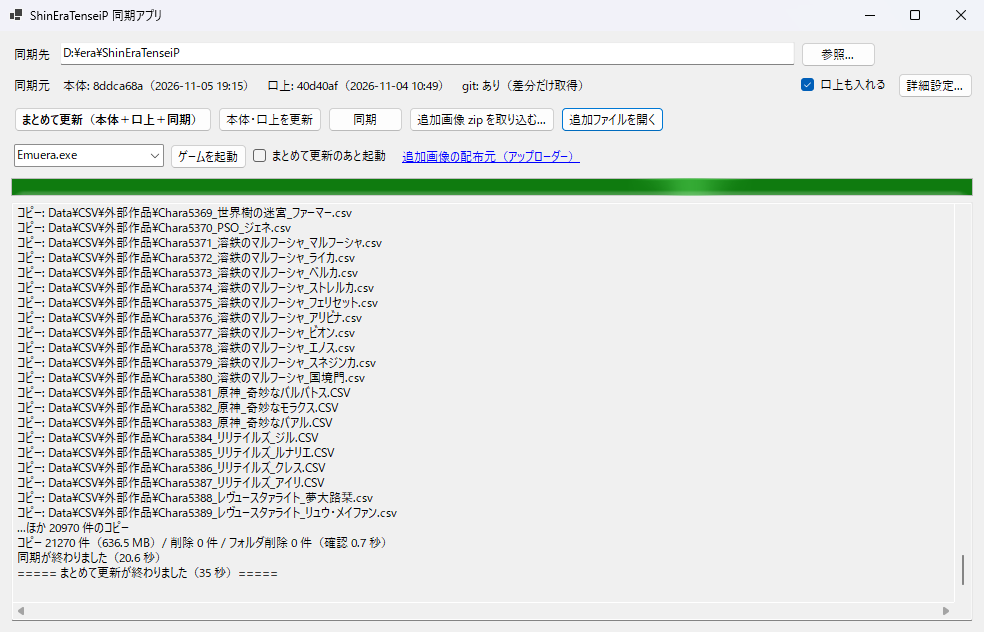
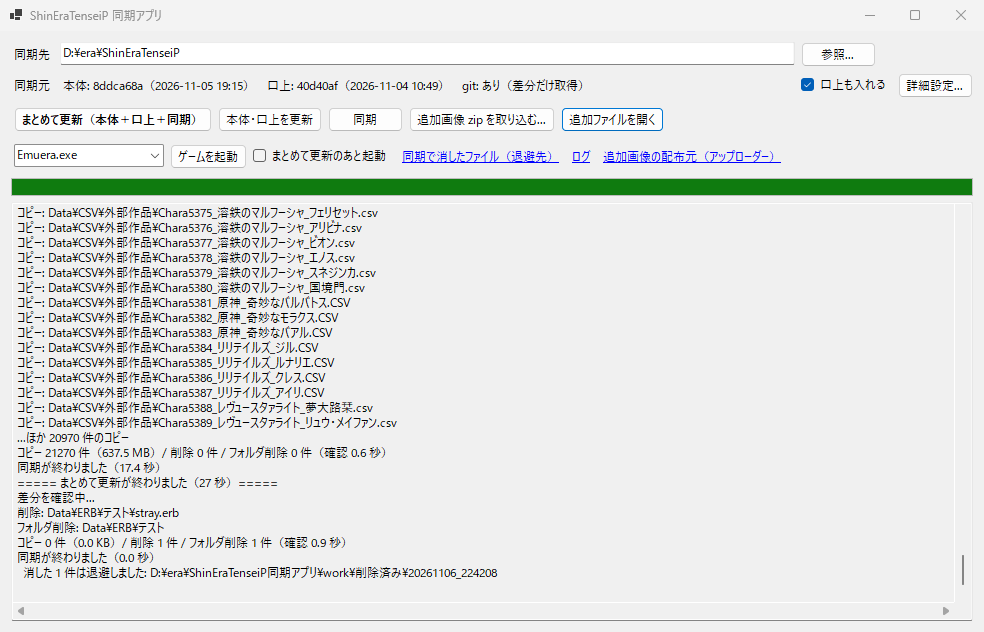
同期で消したファイルを退避し、ログをファイルにも残す (v1.0.1) (#1)

Changed region(s): [[0.0, 0.2405, 0.9756, 0.932], [0.0305, 0.0, 0.1524, 0.0301]]

diff --git a/MainForm.cs b/MainForm.cs
@@ -7,12 +7,16 @@ class MainForm : Form
 {
     private static readonly string AppDirectory = AppContext.BaseDirectory;
     private static readonly string ConfigPath = Path.Combine(AppDirectory, "config.txt");
+    private const long MaxLogBytes = 2_000_000;
 
     private AppConfig _config = new();
     private string BodyDir => _config.BodyPath(AppDirectory);
     private string KojoDir => _config.KojoPath(AppDirectory);
     private string ExtraDir => _config.ExtraPath(AppDirectory);
     private string WorkDir => _config.WorkPath(AppDirectory);
+    private string TrashRoot => Path.Combine(WorkDir, "削除済み");
+    private string LogPath => Path.Combine(WorkDir, "同期アプリ_ログ.txt");
+    private bool _logStarted;
 
     private readonly TextBox _targetBox = new() { Dock = DockStyle.Fill };
     private readonly Button _browseButton = new() { Text = "参照...", AutoSize = true };
@@ -27,6 +31,8 @@ class MainForm : Form
     private readonly ComboBox _launchBox = new() { Width = 150, DropDownStyle = ComboBoxStyle.DropDown };
     private readonly Button _launchButton = new() { Text = "ゲームを起動", AutoSize = true };
     private readonly CheckBox _launchAfterCheck = new() { Text = "まとめて更新のあと起動", AutoSize = true, Anchor = AnchorStyles.Left };
+    private readonly LinkLabel _trashLink = new() { Text = "同期で消したファイル（退避先）", AutoSize = true, Anchor = AnchorStyles.Left };
+    private readonly LinkLabel _logLink = new() { Text = "ログ", AutoSize = true, Anchor = AnchorStyles.Left };
     private readonly LinkLabel _uploaderLink = new() { Text = "追加画像の配布元（アップローダー）", AutoSize = true, Anchor = AnchorStyles.Left };
     private readonly ProgressBar _progressBar = new() { Dock = DockStyle.Fill };
     private readonly TextBox _logBox = new() { Dock = DockStyle.Fill, Multiline = true, ReadOnly = true, ScrollBars = ScrollBars.Both, WordWrap = false };
@@ -61,7 +67,7 @@ class MainForm : Form
         layout.SetColumnSpan(buttons, 3);
 
         var launch = new FlowLayoutPanel { AutoSize = true, Dock = DockStyle.Fill };
-        launch.Controls.AddRange([_launchBox, _launchButton, _launchAfterCheck, _uploaderLink]);
+        launch.Controls.AddRange([_launchBox, _launchButton, _launchAfterCheck, _trashLink, _logLink, _uploaderLink]);
         layout.Controls.Add(launch, 0, 3);
         layout.SetColumnSpan(launch, 3);
 
@@ -83,6 +89,7 @@ class MainForm : Form
             c.Save(ConfigPath);
         }
         LoadConfigToUi();
+        RotateLog();
 
         _toolTip.SetToolTip(_targetBox, "ゲームの ShinEraTenseiP フォルダ。同期で本体＋口上＋追加ファイルと同じ中身になります（セーブや設定、直下のファイルはそのまま）");
         _toolTip.SetToolTip(_allButton, "本体と口上を gitgud から取得（差分だけ）→ ゲームフォルダへ同期、を一度に行います");
@@ -92,6 +99,8 @@ class MainForm : Form
         _toolTip.SetToolTip(_openExtraButton, "ゲームに上乗せするファイルを置く場所。中はゲームフォルダと同じ並び（Data\\resources\\… など）");
         _toolTip.SetToolTip(_kojoCheck, "口上（eramegatenpKOJO）を本体と一緒に入れます。外すと次の同期で口上のファイルは消えます");
         _toolTip.SetToolTip(_launchBox, "起動する exe（同期先の直下）");
+        _toolTip.SetToolTip(_trashLink, $"同期でゲームフォルダから消したファイルは、作業フォルダの「削除済み\\日時」に元の並びで退避します（直近 {FolderSync.TrashGenerations} 回分）");
+        _toolTip.SetToolTip(_logLink, "このウィンドウのログと同じ内容を残したファイル（作業フォルダの 同期アプリ_ログ.txt）を開きます");
 
         _kojoCheck.CheckedChanged += (_, _) => TrySaveSettings();
         _launchAfterCheck.CheckedChanged += (_, _) => TrySaveSettings();
@@ -106,6 +115,8 @@ class MainForm : Form
         _importButton.Click += async (_, _) => await ChooseAndImport();
         _openExtraButton.Click += (_, _) => { Directory.CreateDirectory(ExtraDir); OpenShell(ExtraDir); };
         _launchButton.Click += (_, _) => Launch();
+        _trashLink.LinkClicked += (_, _) => { Directory.CreateDirectory(TrashRoot); OpenShell(TrashRoot); };
+        _logLink.LinkClicked += (_, _) => { if (File.Exists(LogPath)) OpenShell(LogPath); else OpenShell(WorkDir); };
         _uploaderLink.LinkClicked += (_, _) => { if (AppConfig.IsWebUrl(_config.ExtraUrl)) OpenShell(_config.ExtraUrl); };
         DragEnter += (_, e) => { if (e.Data?.GetDataPresent(DataFormats.FileDrop) == true) e.Effect = DragDropEffects.Copy; };
         DragDrop += async (_, e) =>
@@ -381,7 +392,8 @@ class MainForm : Form
         {
             string sample = string.Join("\n", plan.DeleteFiles.Take(8).Select(r => "・" + r)) + (plan.DeleteFiles.Count > 8 ? $"\n…ほか {plan.DeleteFiles.Count - 8} 件（ログ参照）" : "");
             string question = $"{targetRoot}\n\nコピー {plan.Copies.Count} 件 / 削除 {plan.DeleteFiles.Count} 件 / フォルダ削除 {plan.DeleteDirs.Count} 件\n\n{sample}\n\n"
-                + "配布元から消えたファイルや、本体・口上・追加ファイルのどれにもないファイルです。\n残したいものは先に「追加ファイル」へ移すか、詳細設定の「触らない場所」に入れてください。\n\n実行しますか？";
+                + "配布元から消えたファイルや、本体・口上・追加ファイルのどれにもないファイルです。\n残したいものは先に「追加ファイル」へ移すか、詳細設定の「触らない場所」に入れてください。\n\n"
+                + $"消すファイルは次の場所に退避します（直近 {FolderSync.TrashGenerations} 回分）:\n{TrashRoot}\n\n実行しますか？";
             if (MessageBox.Show(this, question, "同期の確認", MessageBoxButtons.OKCancel, MessageBoxIcon.Question) != DialogResult.OK)
             {
                 Log("同期をやめました");
@@ -393,8 +405,10 @@ class MainForm : Form
         _progressBar.Value = 0;
         var progress = new Progress<int>(done => _progressBar.Value = Math.Min(done, _progressBar.Maximum));
         sw.Restart();
-        await Task.Run(() => FolderSync.Execute(plan, targetRoot, progress, Log));
+        string trashRoot = TrashRoot;
+        string? trashDir = await Task.Run(() => FolderSync.Execute(plan, targetRoot, trashRoot, progress, Log));
         Log($"同期が終わりました（{sw.Elapsed.TotalSeconds:0.0} 秒）");
+        if (trashDir != null) Log($"  消した {plan.DeleteFiles.Count} 件は退避しました: {trashDir}");
         return true;
     }
 
@@ -462,7 +476,21 @@ class MainForm : Form
 
     private static void OpenShell(string path) => Process.Start(new ProcessStartInfo(path) { UseShellExecute = true });
 
-    // バックグラウンド処理からも呼ばれるので UI スレッドに回す
+    // 起動時、ログが大きくなっていたら .old.txt に回す（前の .old.txt は消える）
+    private void RotateLog()
+    {
+        try
+        {
+            var info = new FileInfo(LogPath);
+            if (info.Exists && info.Length > MaxLogBytes) File.Move(LogPath, Path.ChangeExtension(LogPath, ".old.txt"), true);
+        }
+        catch (Exception)
+        {
+            // ログが回せなくても動作には関係ない
+        }
+    }
+
+    // バックグラウンド処理からも呼ばれるので UI スレッドに回す。ログファイルにも残す
     private void Log(string message)
     {
         if (InvokeRequired)
@@ -470,6 +498,22 @@ class MainForm : Form
             BeginInvoke(() => Log(message));
             return;
         }
-        _logBox.AppendText(message.Replace("\n", Environment.NewLine) + Environment.NewLine);
+        _logBox.AppendText(message.Replace("\r\n", "\n").Replace("\n", Environment.NewLine) + Environment.NewLine);
+        try
+        {
+            Directory.CreateDirectory(WorkDir);
+            var sb = new StringBuilder();
+            if (!_logStarted)
+            {
+                sb.Append($"\r\n===== {DateTime.Now:yyyy/MM/dd HH:mm:ss} 起動 =====\r\n");
+                _logStarted = true;
+            }
+            sb.Append($"{DateTime.Now:HH:mm:ss} ").Append(message.Replace("\r\n", "\n").TrimEnd('\n').Replace("\n", "\r\n         ")).Append("\r\n");
+            File.AppendAllText(LogPath, sb.ToString(), new UTF8Encoding(false));
+        }
+        catch (Exception)
+        {
+            // ログが書けなくても動作には関係ない
+        }
     }
 }

diff --git a/FolderSync.cs b/FolderSync.cs
@@ -12,6 +12,9 @@ record SyncPlan(
 
 static class FolderSync
 {
+    /// <summary>同期で消したファイルの退避を何回分残すか</summary>
+    public const int TrashGenerations = 10;
+
     public static SourceLayer BodyLayer(string root) => new("本体", root, rel => FirstPart(rel).Equals(".git", StringComparison.OrdinalIgnoreCase) ? null : rel);
 
     // 口上リポジトリの ERB\ はゲームの Data\ERB\ に、それ以外（KOJO_README.md など）はゲームフォルダ直下に入る
@@ -104,7 +107,10 @@ static class FolderSync
         }
     }
 
-    public static void Execute(SyncPlan plan, string targetRoot, IProgress<int> progress, Action<string> log)
+    /// <summary>
+    /// 同期を実行する。消すファイルは trashRoot\日時\ に元の並びで退避し（直近 TrashGenerations 回分を残す）、退避先を返す
+    /// </summary>
+    public static string? Execute(SyncPlan plan, string targetRoot, string trashRoot, IProgress<int> progress, Action<string> log)
     {
         int done = 0;
         foreach (var (src, rel) in plan.Copies)
@@ -122,11 +128,14 @@ static class FolderSync
             File.SetLastWriteTimeUtc(dest, File.GetLastWriteTimeUtc(src));
             if (++done % 200 == 0) progress.Report(done);
         }
+        string? trashDir = plan.DeleteFiles.Count > 0 ? NewTrashDir(trashRoot) : null;
         foreach (string rel in plan.DeleteFiles)
         {
             string path = Path.Combine(targetRoot, rel);
+            string to = Path.Combine(trashDir!, rel);
+            Directory.CreateDirectory(Path.GetDirectoryName(to)!);
             File.SetAttributes(path, FileAttributes.Normal);
-            File.Delete(path);
+            File.Move(path, to, overwrite: true); // 別ドライブならコピーしてから消える
             if (++done % 50 == 0) progress.Report(done);
         }
         foreach (string rel in plan.DeleteDirs)
@@ -137,6 +146,31 @@ static class FolderSync
             progress.Report(++done);
         }
         progress.Report(done);
+        if (trashDir != null) PruneTrash(trashRoot, log);
+        return trashDir;
+    }
+
+    private static string NewTrashDir(string trashRoot)
+    {
+        string stamp = DateTime.Now.ToString("yyyyMMdd_HHmmss");
+        string dir = Path.Combine(trashRoot, stamp);
+        for (int i = 2; Directory.Exists(dir); i++) dir = Path.Combine(trashRoot, $"{stamp}_{i}");
+        Directory.CreateDirectory(dir);
+        return dir;
+    }
+
+    // 古い退避から消す（名前が日時なので並べ替えれば古い順になる）
+    private static void PruneTrash(string trashRoot, Action<string> log)
+    {
+        try
+        {
+            foreach (var old in Directory.GetDirectories(trashRoot).OrderByDescending(d => Path.GetFileName(d), StringComparer.Ordinal).Skip(TrashGenerations))
+                PathUtil.DeleteDirectoryForce(old);
+        }
+        catch (Exception ex)
+        {
+            log("  古い退避の削除に失敗しました（次回また試します）: " + ex.Message);
+        }
     }
 
     private enum FileDiff { Same, TimeOnly, Different }

diff --git a/ConfigDialog.cs b/ConfigDialog.cs
@@ -67,7 +67,7 @@ class ConfigDialog : Form
         Add("本体の保存先", _bodyDir, "本体の最新版を置く場所（空なら「本体」）。手で編集しないでください。更新のたびに配布元と同じに戻ります。", Browse(_bodyDir));
         Add("口上の保存先", _kojoDir, "口上の最新版を置く場所（空なら「口上」）。こちらも更新のたびに配布元と同じに戻ります。", Browse(_kojoDir));
         Add("追加ファイルの保存先", _extraDir, "ゲームに上乗せするファイルの置き場（空なら「追加ファイル」）。中はゲームフォルダと同じ並び（Data\\resources\\… など）。本体・口上より優先されます。", Browse(_extraDir));
-        Add("作業フォルダ", _workDir, "zip で取得するときの一時置き場（空なら「work」）。", Browse(_workDir));
+        Add("作業フォルダ", _workDir, "ログ（同期アプリ_ログ.txt）、同期で消したファイルの退避先（削除済み）、zip で取得するときの一時置き場（空なら「work」）。", Browse(_workDir));
         Add("git.exe の場所", _gitPath, "空なら自動で探します。git があると差分だけ取得（数秒〜）、無いと毎回 zip を丸ごと取得します。", Browse(_gitPath, file: true));
         Add("追加画像の配布元", _extraUrl, "メイン画面の「追加画像の配布元」リンクで開くページ。今の配布元（getuploader）は 2026/11/25 にサービス終了予定なので、移転したらここを新しい URL に変えてください。空ならリンクを出しません。");
         Add("触らない場所", _noAction, "同期でコピーも削除もしない場所（1行に1つ、同期先からの相対パス）。/ を含まない名前はどの階層でも一致し、* は任意の文字列。ゲームフォルダ直下のファイルは書かなくても消しません。");

diff --git a/Util.cs b/Util.cs
@@ -9,7 +9,7 @@ static class Http
     private static HttpClient CreateClient()
     {
         var client = new HttpClient { Timeout = TimeSpan.FromMinutes(60) };
-        client.DefaultRequestHeaders.UserAgent.ParseAdd("Mozilla/5.0 (Windows NT 10.0; Win64; x64) ShinEraTenseiP-sync/1.0");
+        client.DefaultRequestHeaders.UserAgent.ParseAdd("Mozilla/5.0 (Windows NT 10.0; Win64; x64) ShinEraTenseiP-sync/1.0.1");
         return client;
     }
 
